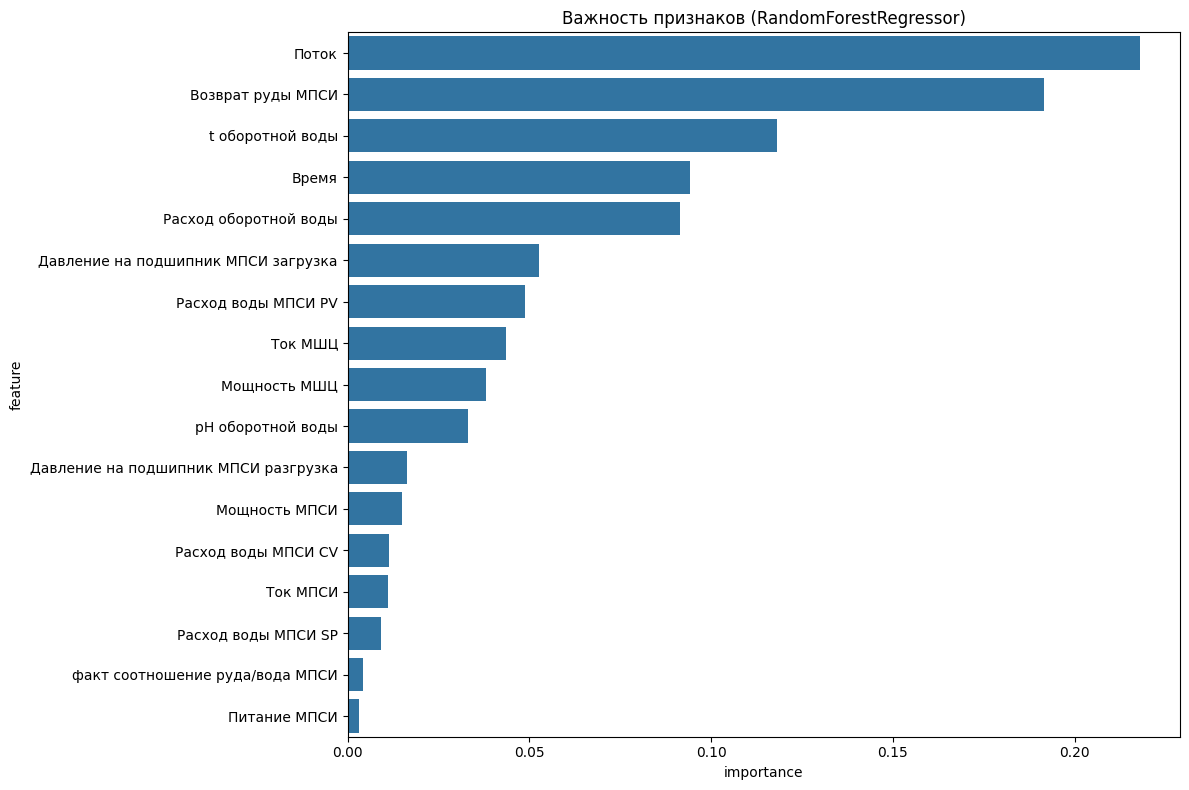
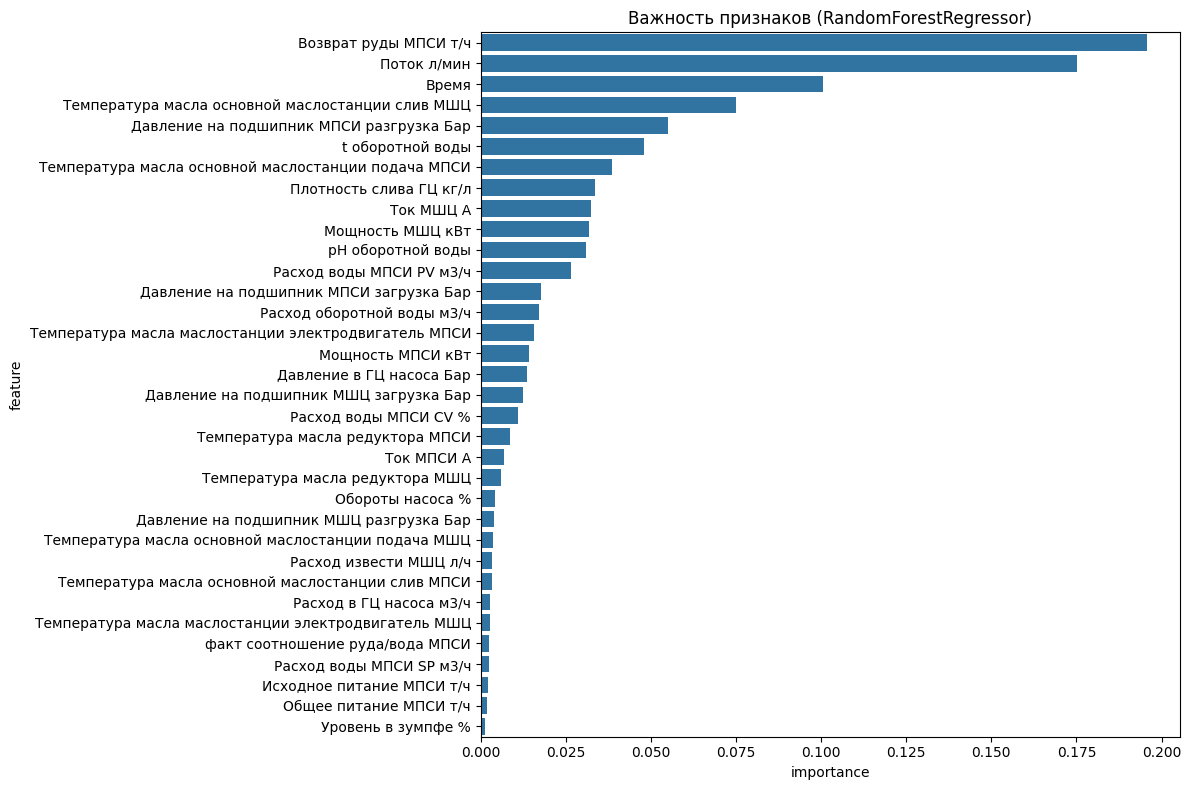
обновил ридмишку

diff --git a/README.md b/README.md
@@ -5,7 +5,7 @@
 При исследовании технологических данных обогатительной фабрики мы столкнулись с несколькими существенными проблемами:
 
 - Треть всего времени производства значения потока и гранулометрии равны нулю, что значительно искажает значения корреляции значений
-- **16051 пропущенное значение потока** (3% всех записей)
+- **16051 пропущенное значение потока** (3.1% всех записей)
 - **Отсутствие данных по оборотной воде** на первом участке
 - **Транспортные задержки** между измерением и регулировкой параметров
 
@@ -13,13 +13,13 @@
 
 В результате анализа данных обнаружены важные зависимости:
 
-1. **Наиболее частое значение входного потока** - около 260
-2. **Кореляция гранулометра от потока**: снизилась до 0.05 после очистки данных
-3. **Сильная обратная корреляция с возвратом руды** - ключевой фактор влияния
+1. **Наиболее частое значение входного потока** - около 250 (медиана)
+2. **Корреляция гранулометра от потока**: 0.83 после очистки данных
+3. **Сильная корреляция с возвратом руды** - ключевой фактор влияния
 
 ## 📈 Оптимальный размер частиц
 
-Для оптимизации эффективности извлечения рудной фракции из пульпы критически важно обеспечить соответствие гранулометрического состава заданным параметрам. По результатам комплексного анализа технологических данных установлен оптимальный диапазон размера частиц на выходном продукте: 77-86 микрометров.
+Для оптимизации эффективности извлечения рудной фракции из пульпы критически важно обеспечить соответствие гранулометрического состава заданным параметрам. По результатам комплексного анализа технологических данных установлен оптимальный диапазон размера частиц на выходном продукте: 77% - 86%.
 
 В рамках решения предусмотрена разработка системы автоматизированного контроля, осуществляющего:
 
@@ -35,16 +35,36 @@
 
 По результатам анализа модели RandomForestRegressor были выявлены наиболее значимые признаки, влияющие на целевую переменную. Ниже представлены топ-10 наиболее важных параметров процесса:
 
-* **Поток** (21.81%) - является самым влиятельным параметром, определяющим почти четверть результата
-* **Возврат руды МПСИ** (19.15%)
-* **Температура оборотной воды** (11.82%)
-* **Время** (9.41%)
-* **Расход оборотной воды** (9.16%)
-* **Давление на подшипник МПСИ загрузка** (5.26%)
-* **Расход воды МПСИ PV** (4.87%)
-* **Ток МШЦ** (4.36%)
-* **Мощность МШЦ** (3.80%)
-* **pH оборотной воды** (3.31%)
+* **Возврат руды МПСИ** (19.56%)
+* **Поток** (17.52%)
+* **Время** (10.06%)
+* **Температура масла основной маслостанции слив МШЦ** (7.49%)
+* **Давление на подшипник МПСИ разгрузка** (5.51%)
+* **Температура оборотной воды** (4.80%)
+* **Температура масла основной маслостанции подача** (3.86%)
+* **Плотность слива ГЦ** (3.37%)
+* **Ток МШЦ** (3.23%)
+* **Мощность МШЦ** (3.18%)
+
+## 📊 Метрики качества моделей
+
+### Модель RandomForest
+- Среднеквадратичная ошибка (MSE): 2.8245
+- Корень из среднеквадратичной ошибки (RMSE): 1.6806
+- Коэффициент детерминации (R²): 0.9476
+- Медианная абсолютная ошибка (MAE): 0.0055
+
+### Модель CatBoost
+- Среднеквадратичная ошибка (MSE): 16.9026
+- Корень из среднеквадратичной ошибки (RMSE): 4.1113
+- Коэффициент детерминации (R²): 0.6866
+- Медианная абсолютная ошибка (MAE): 1.9131
+
+### Модель линейной регрессии
+- Среднеквадратичная ошибка (MSE): 34.8520
+- Корень из среднеквадратичной ошибки (RMSE): 5.9036
+- Коэффициент детерминации (R²): 0.3538
+- Медианная абсолютная ошибка (MAE): 3.3300
 
 ## 🛠 Предлагаемые решения
 
